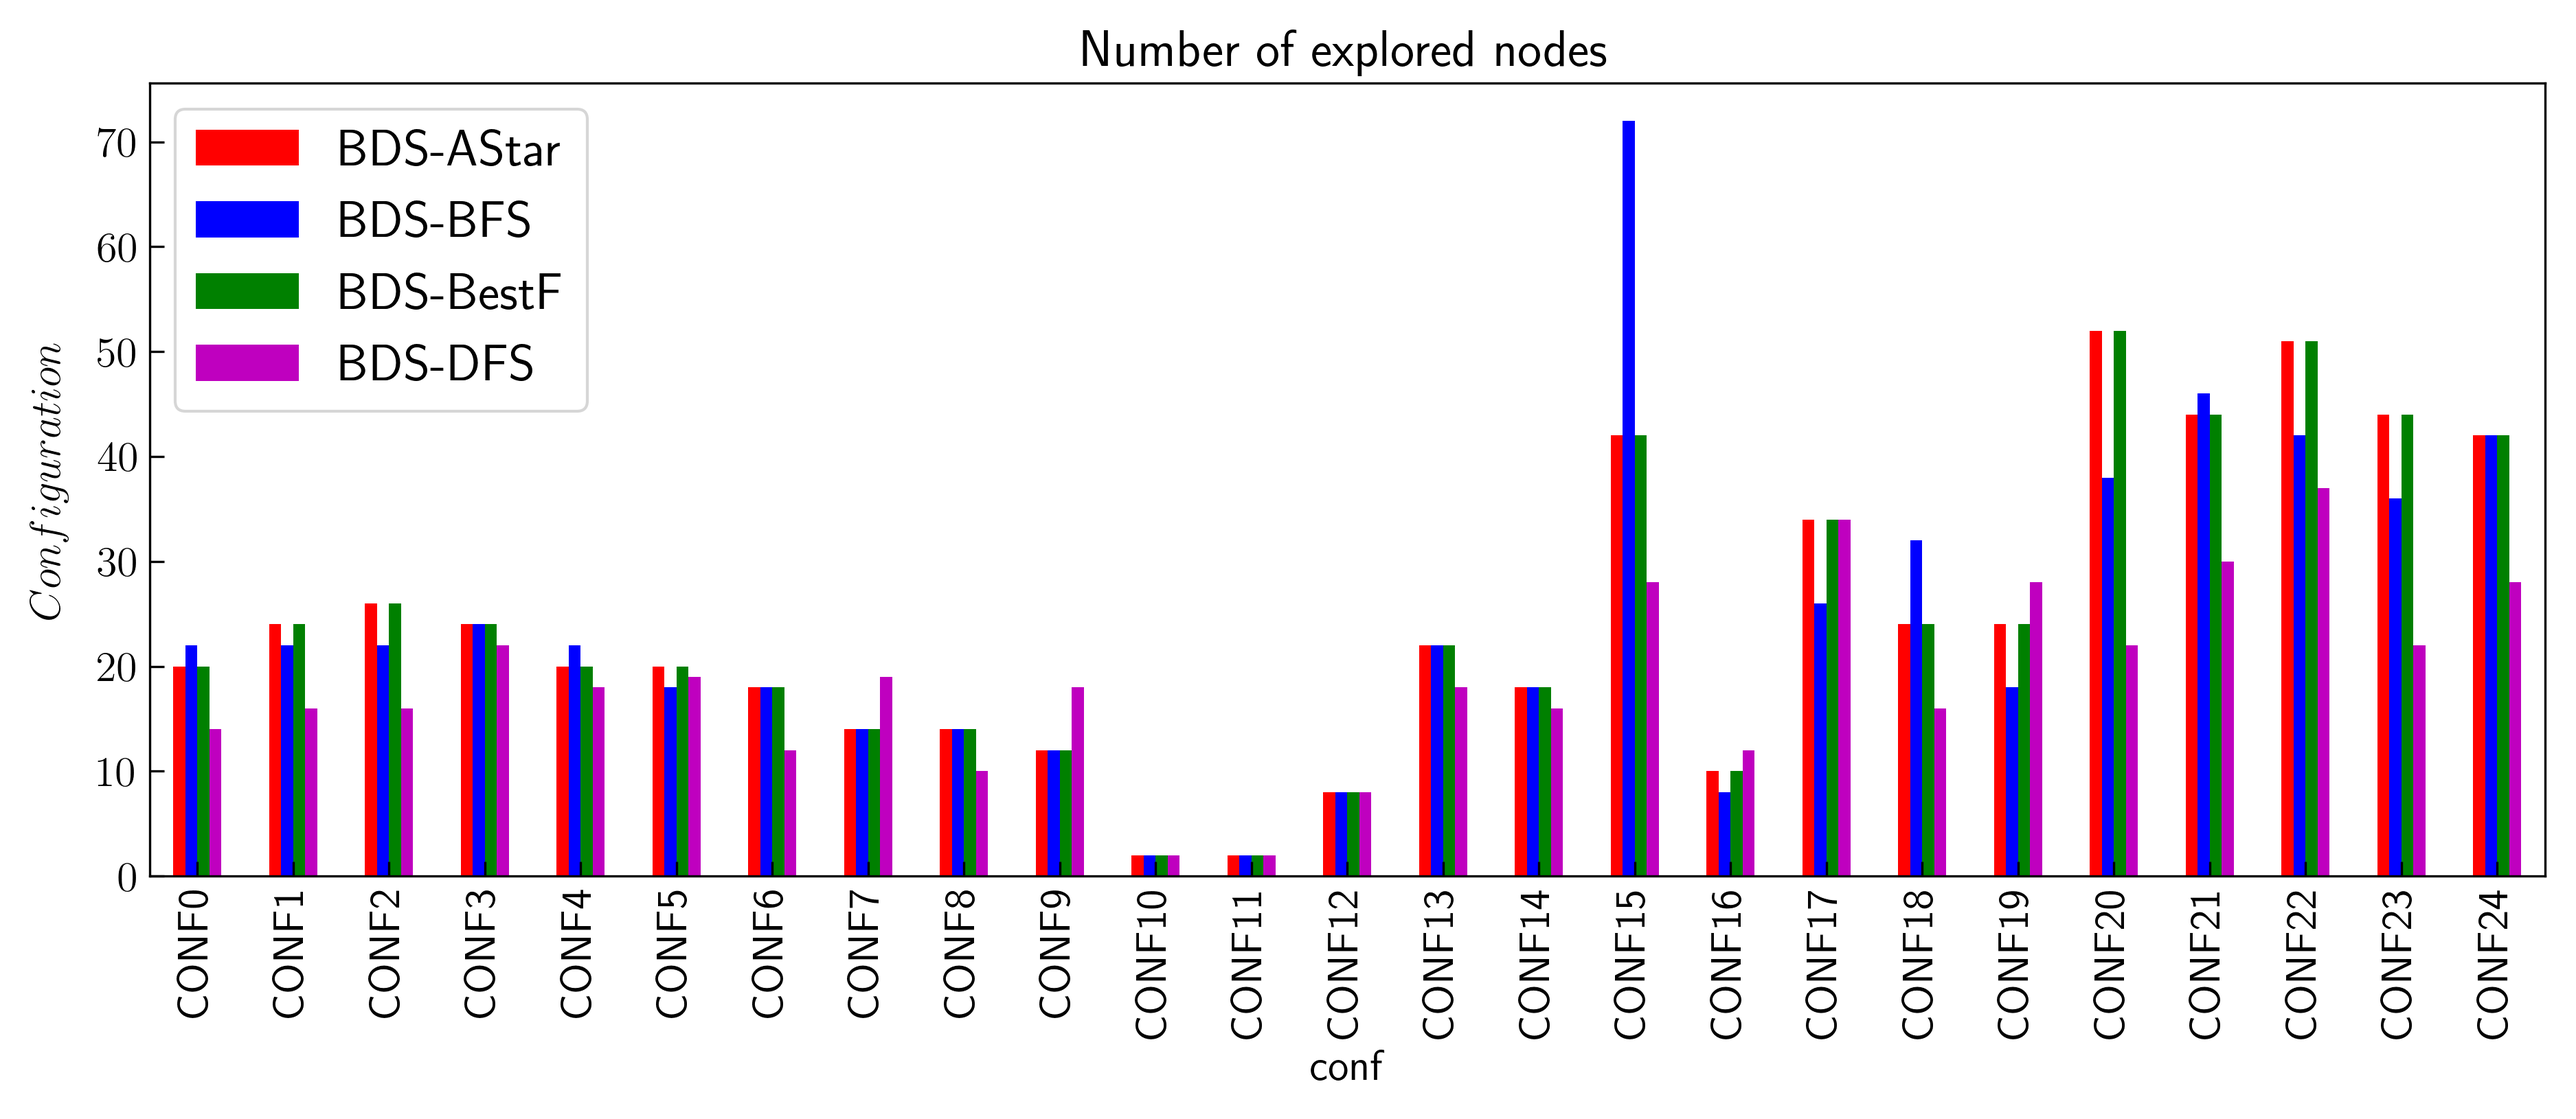
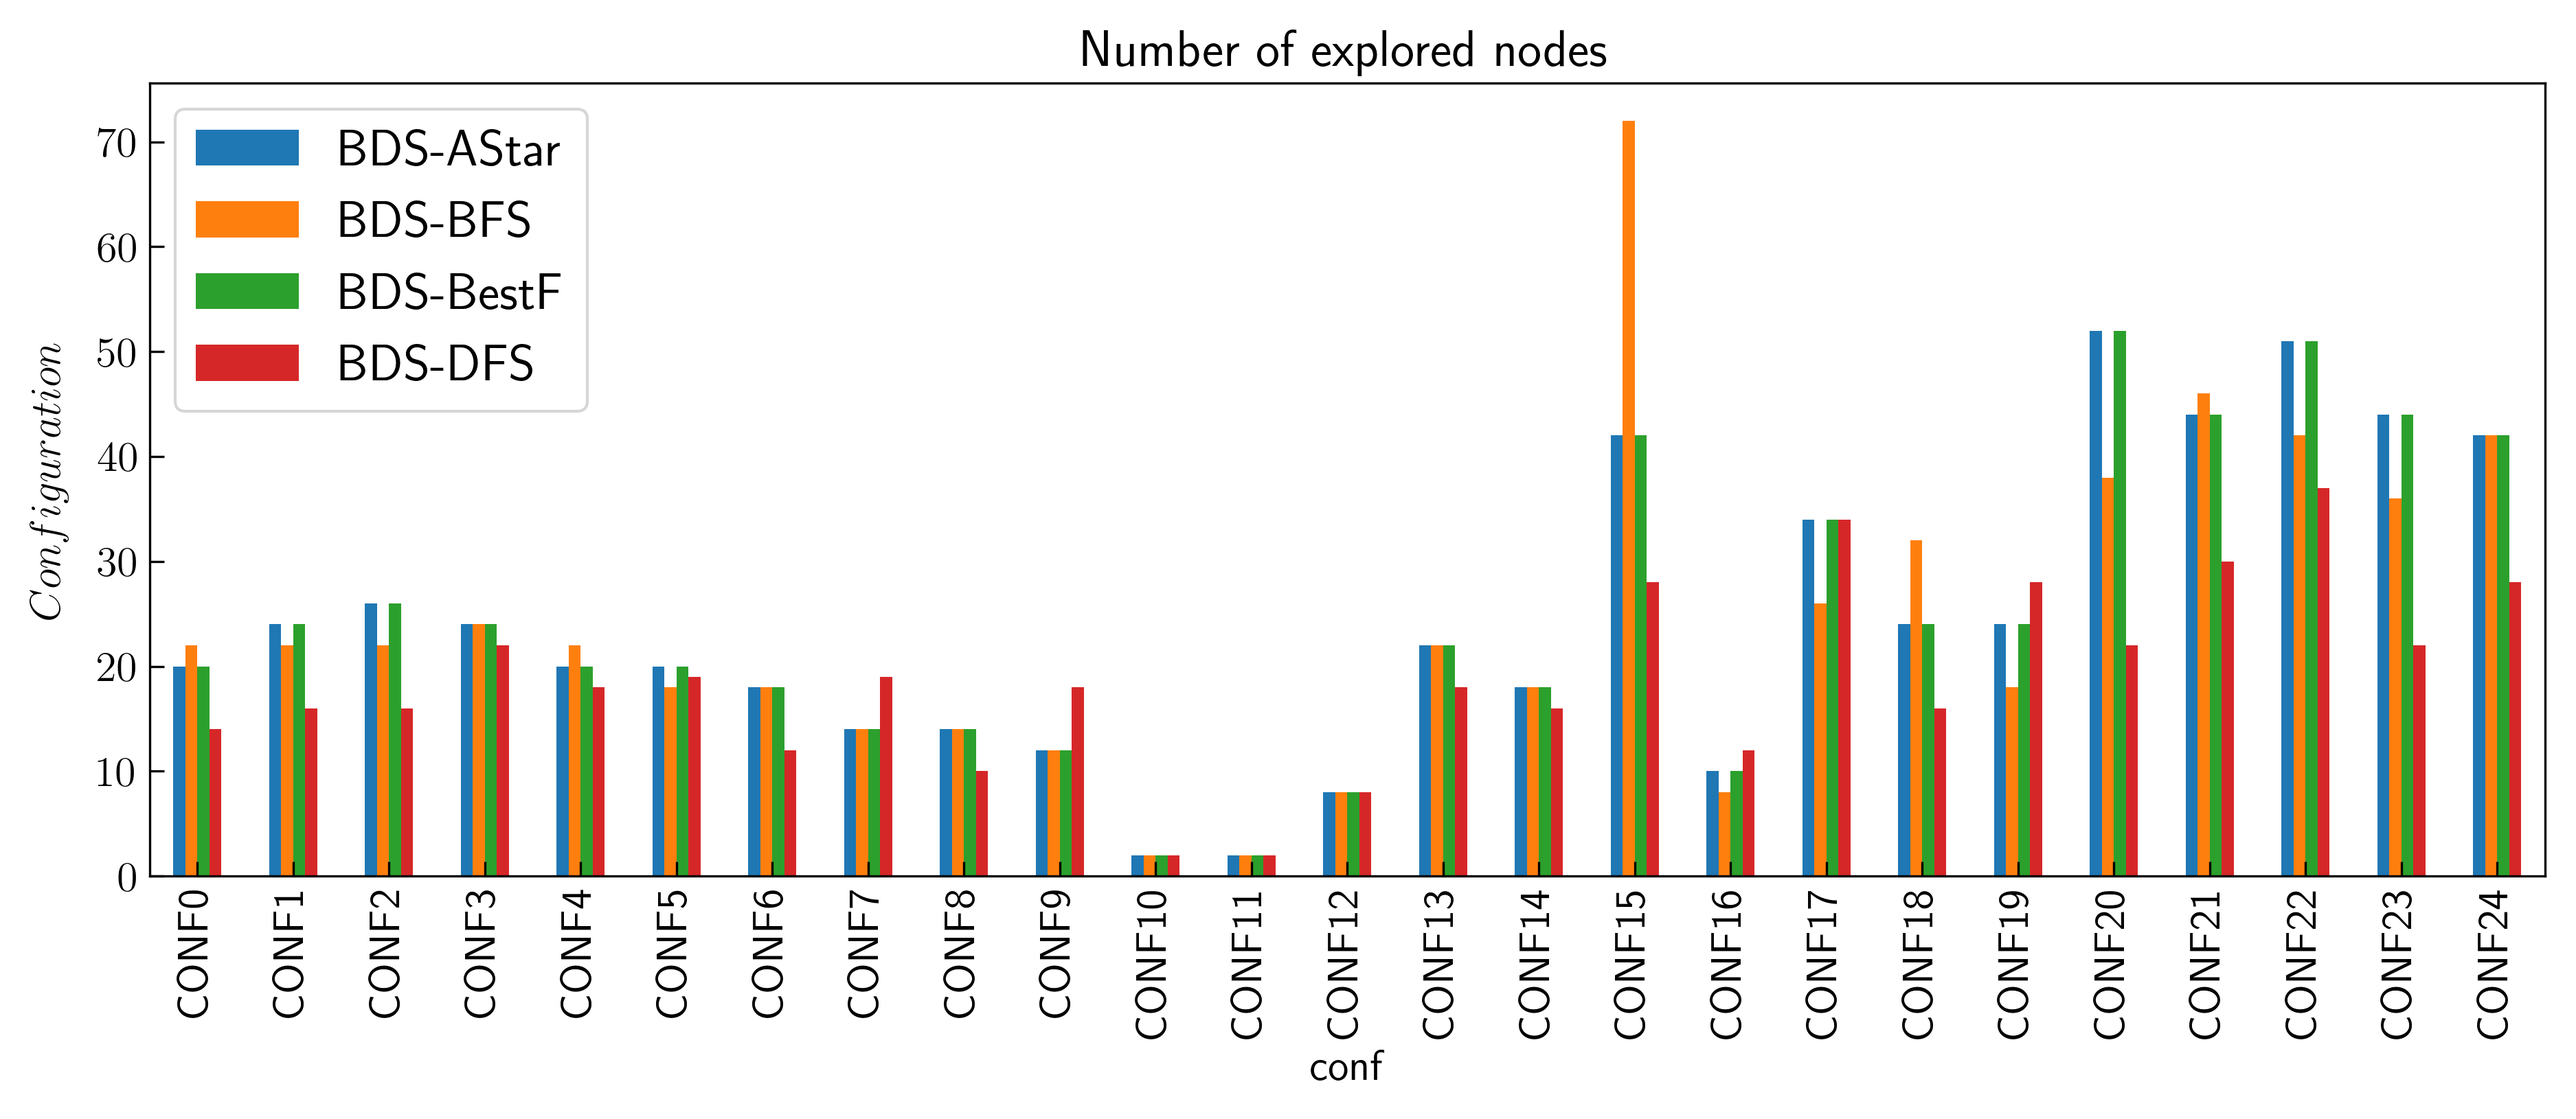
Changed evaluation to use a clearer color scheme

diff --git a/evaluation/evaluation.py b/evaluation/evaluation.py
@@ -1,6 +1,5 @@
-# ANALYSIS MODULE
-# Running this file will grab the JSON file
-# containing the analysis results and create the
+# EVALUATION
+# Running this file will grab the JSON file containing the experiment results and create the
 # plots and tables in the evaluation/out folder.
 
 # built-in imports
@@ -48,7 +47,6 @@ def set_plt_params():
     plt.rcParams['ytick.major.size'] = major
     plt.rcParams['xtick.direction'] = 'in'
     plt.rcParams['ytick.direction'] = 'in'
-    plt.rcParams['axes.prop_cycle'] = cycler(color=["r", "b", "g", "m", "c", "y", "k"])
 
 def create_plot(df: pd.DataFrame, file_name: str, title: str, ycol: str):
 
